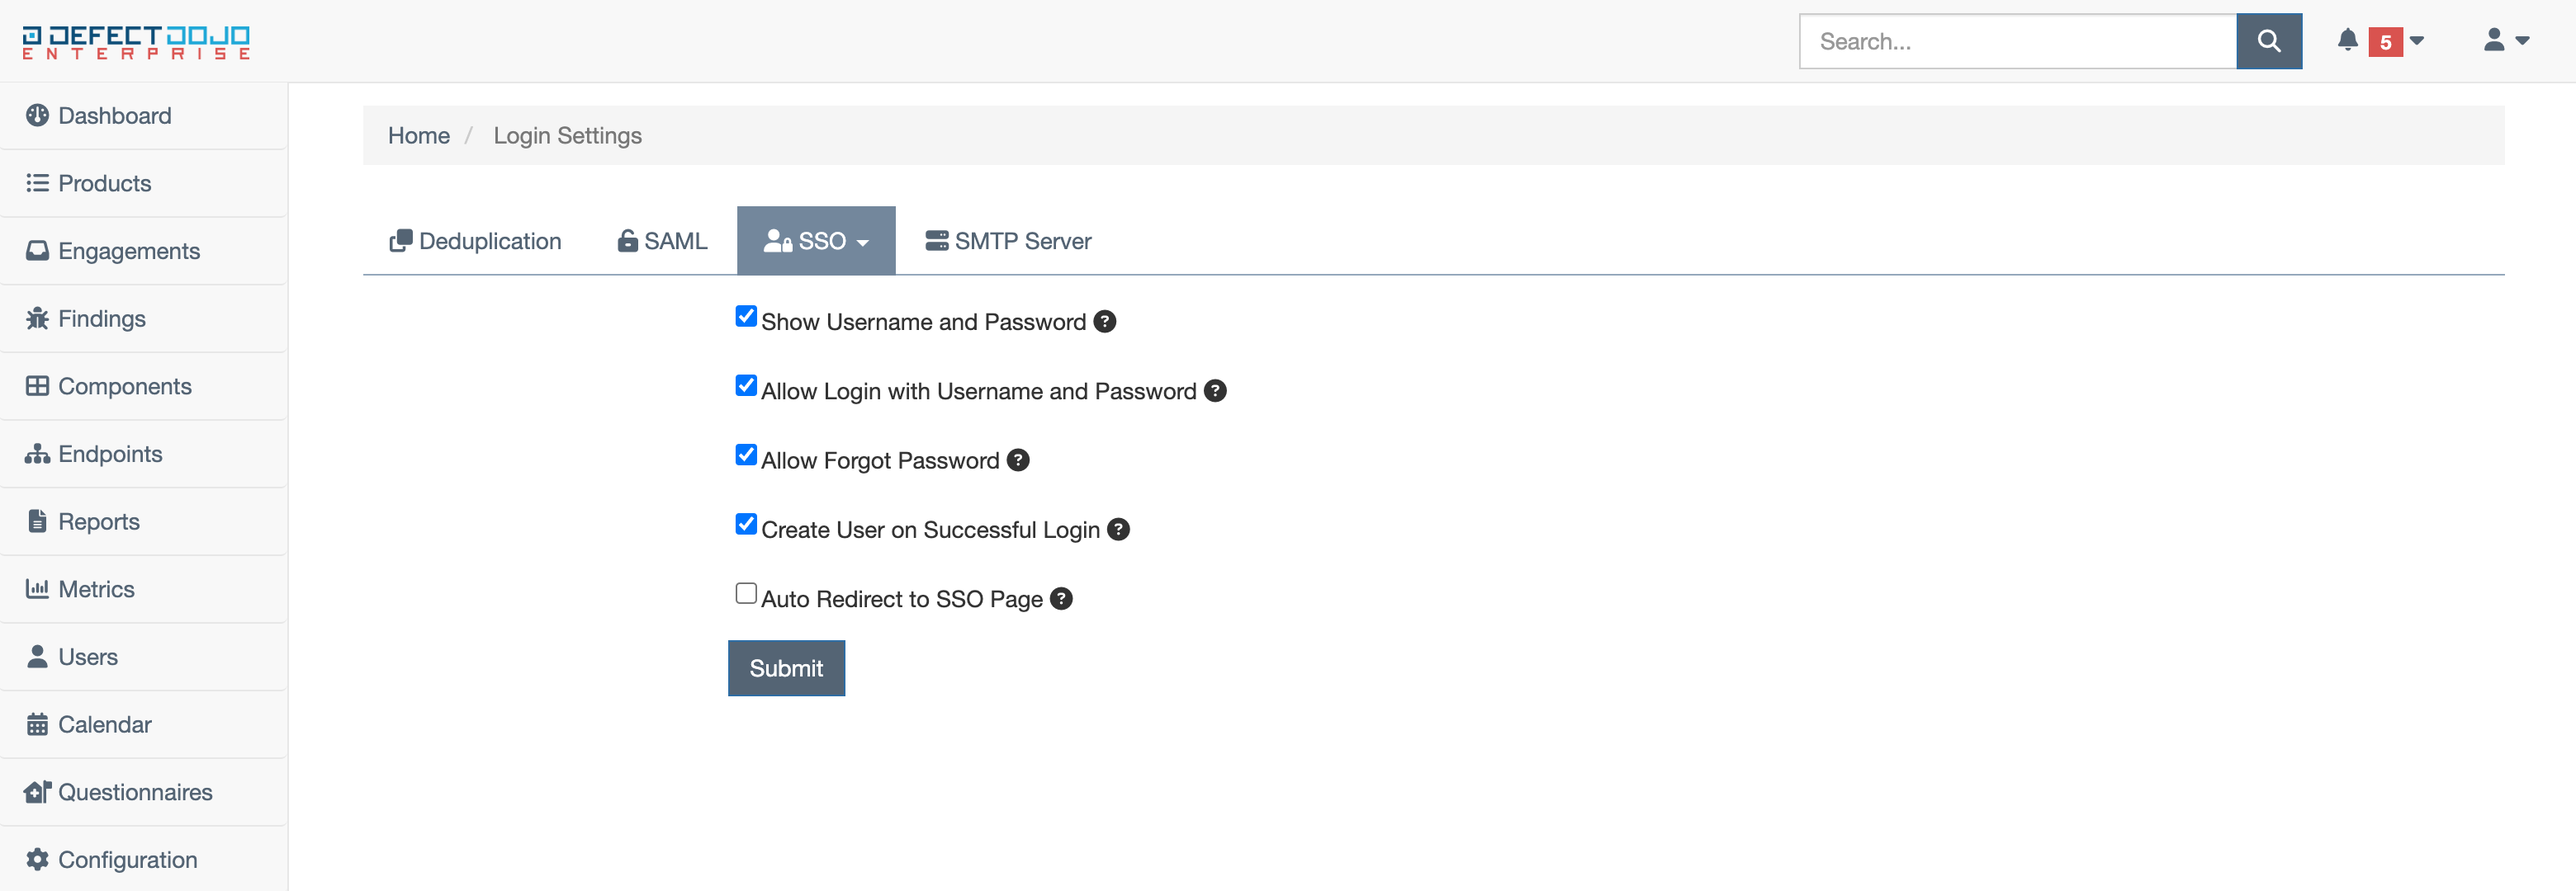
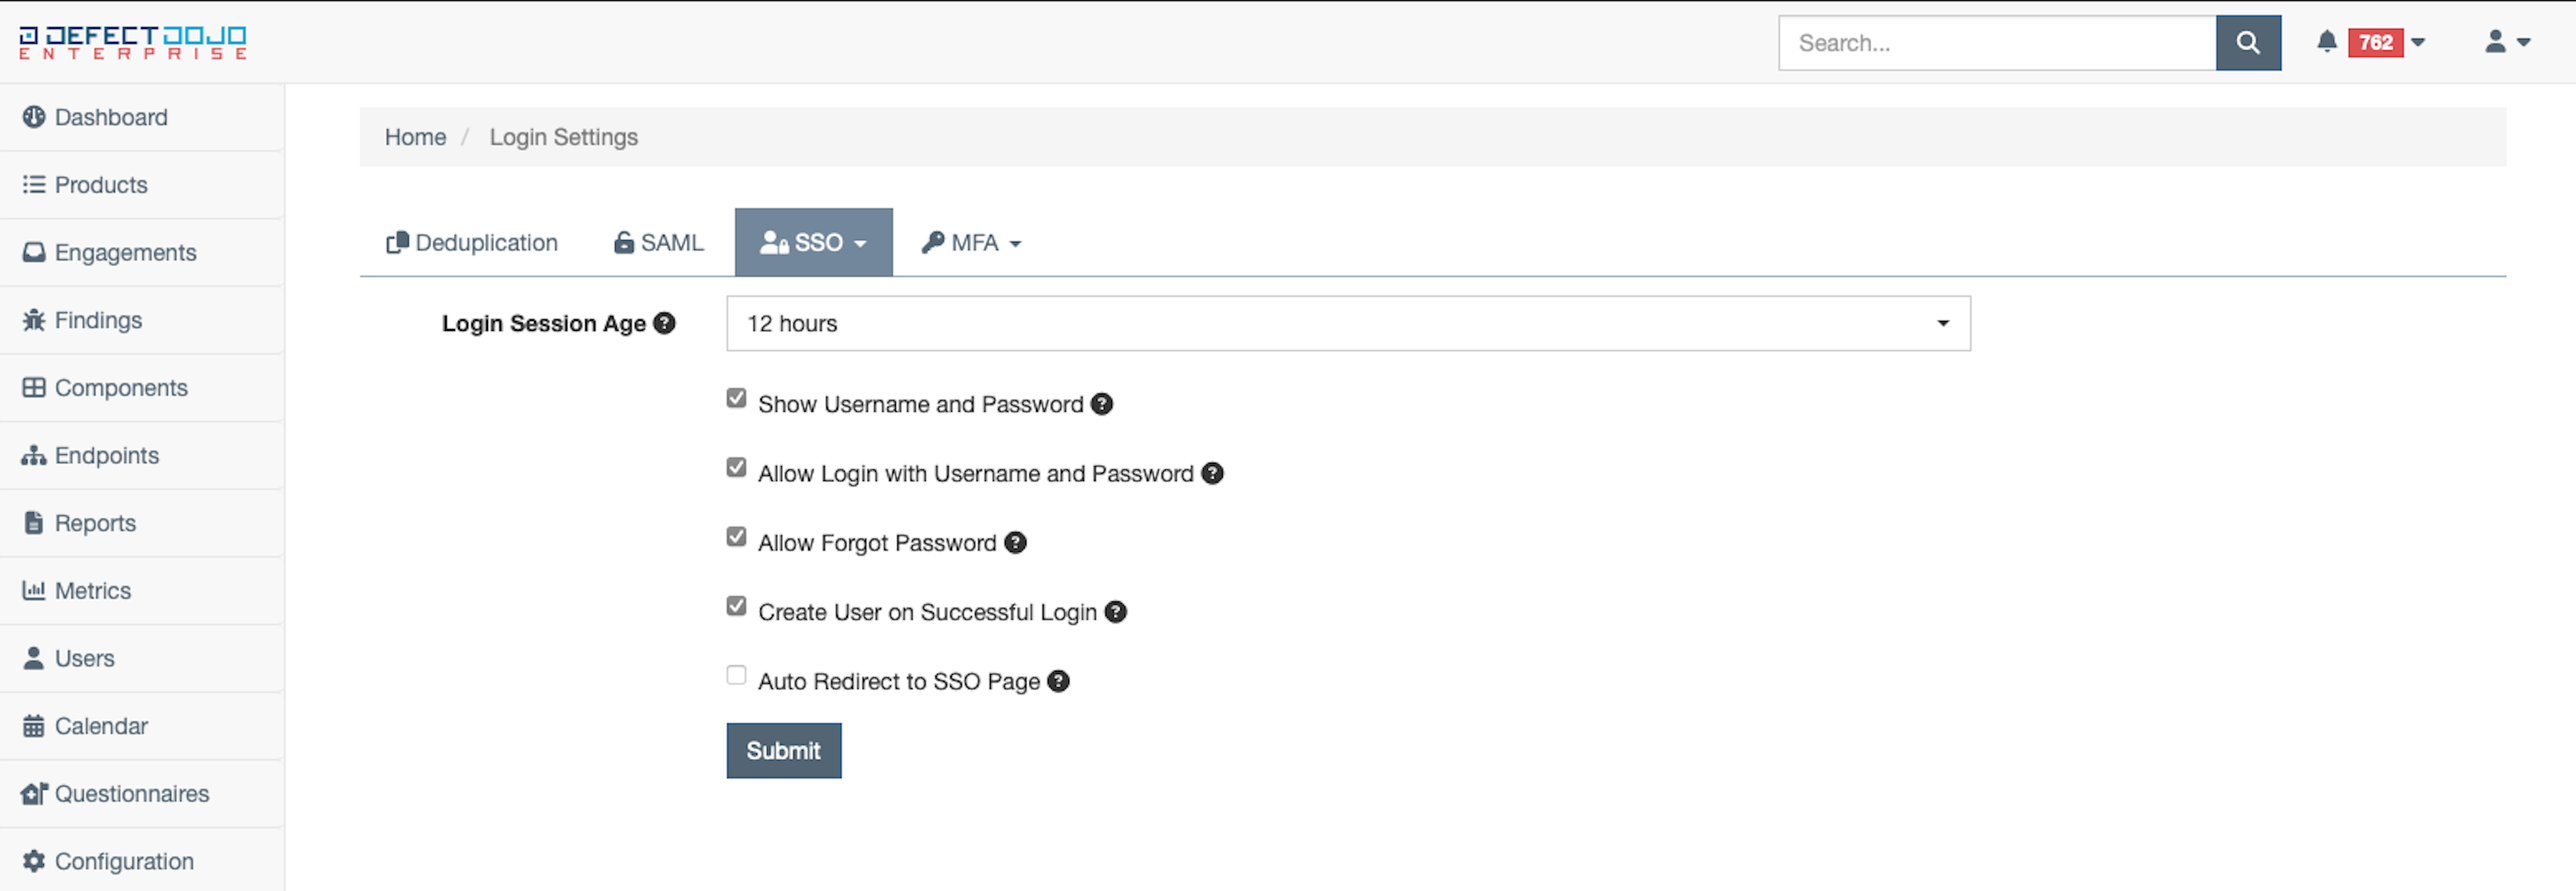
Add docs for configurable sessions (#39)
* Add docs for configurable sessions

* Change dimensions of image

* Update size again

diff --git a/proprietary_plugins/01_plus/tuner.md b/proprietary_plugins/01_plus/tuner.md
@@ -94,6 +94,8 @@ While this example only covers _Auth0_ configuration settings, each of the offer
 
 In addition to settings for each specific SSO offering, a small subset of settings general to all SSO methods can be viewed under the _SSO Settings_ page. The following options are included:
 
+__Session Age__ - Dictates how long a given session will be valid for DefectDojo. The default is set to 12 hours. When modified, the expiration for all exisitng sessions will be updated, and possibly expire
+
 __Show Username and Password__ -  when enabled, the username and password fields remain present on the login page and can be used for login
 
 __Allow Login with Username and Password__ - when enabled, the login button by username and password is present
